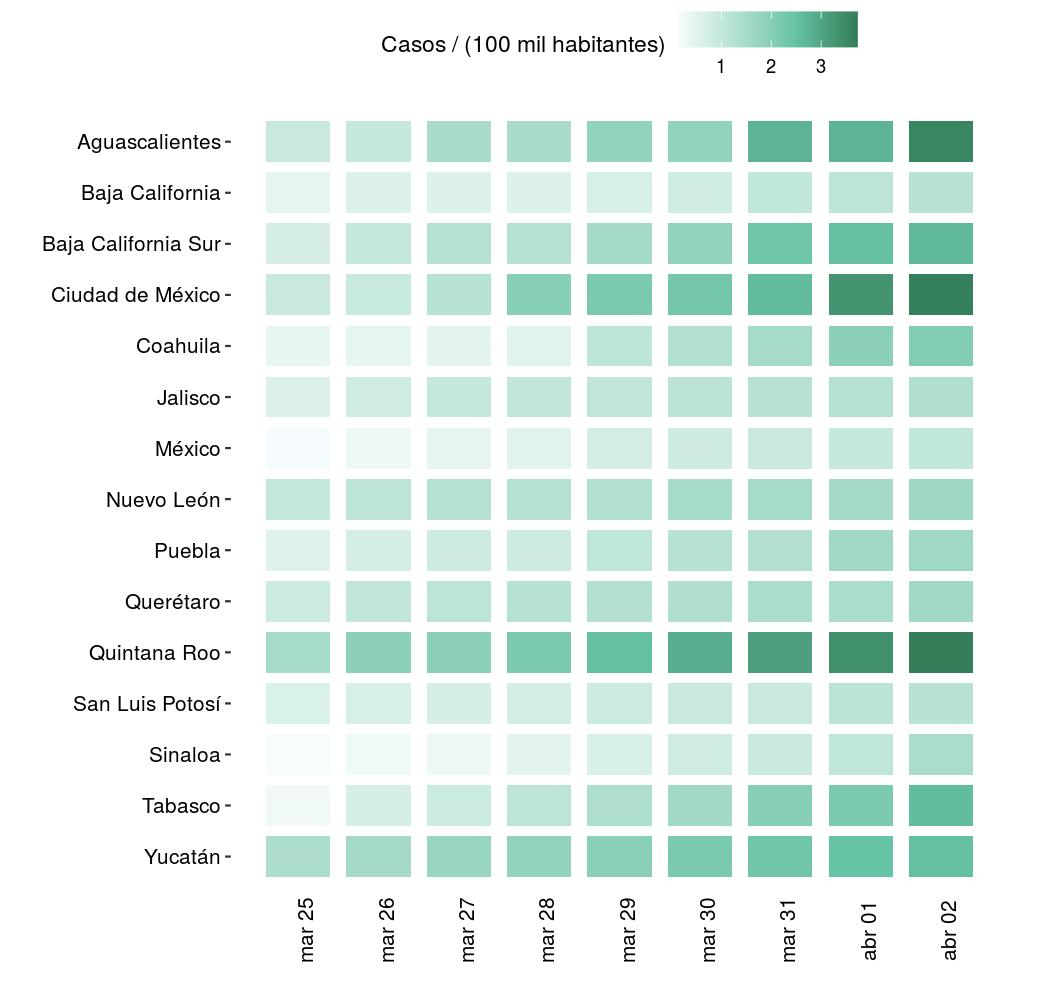
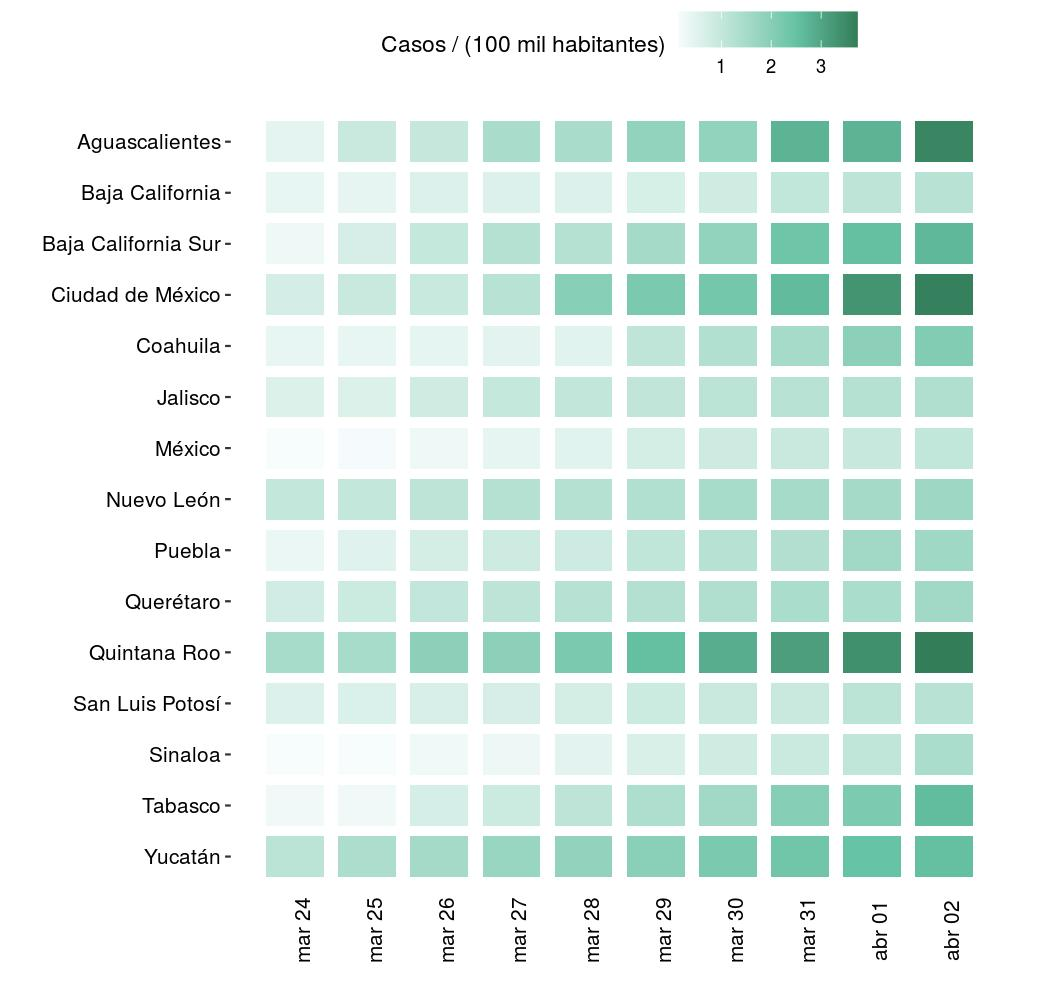
Aprovechando nuevas tablas, incluir 10 días

diff --git a/index.html b/index.html
@@ -443,7 +443,7 @@
       <div class="col-12 col-md-6 my-auto my-auto">
         <h2>Situación en los estados</h2>
         <p class="lead">
-          <p>Los lugares con más población siempre tienen más casos y por lo tanto el número total de casos no refleja la fase de la epidemia. En cambio, la cantidad de casos normalizada por población es un mejor indicador de qué tanto ha penetrado la epidemia en una región</[]> <p>Esta gráfica muestra el número de casos por cada 100 mil habitantes (población de 2015) en los últimos días en varias entidades federativas.</p> <p>Sólo se muestran entidades federativas con al menos 1 caso por 100 mil habitantes</p>
+          <p>Los lugares con más población siempre tienen más casos y por lo tanto el número total de casos no refleja la fase de la epidemia. En cambio, la cantidad de casos normalizada por población es un mejor indicador de qué tanto ha penetrado la epidemia en una región</[]> <p>Esta gráfica muestra el número de casos por cada 100 mil habitantes (población de 2015) en los 10 últimos días en las entidades federativas con al menos 1 caso por 100 mil habitantes.</p>
         </p>
 	
       </div>
